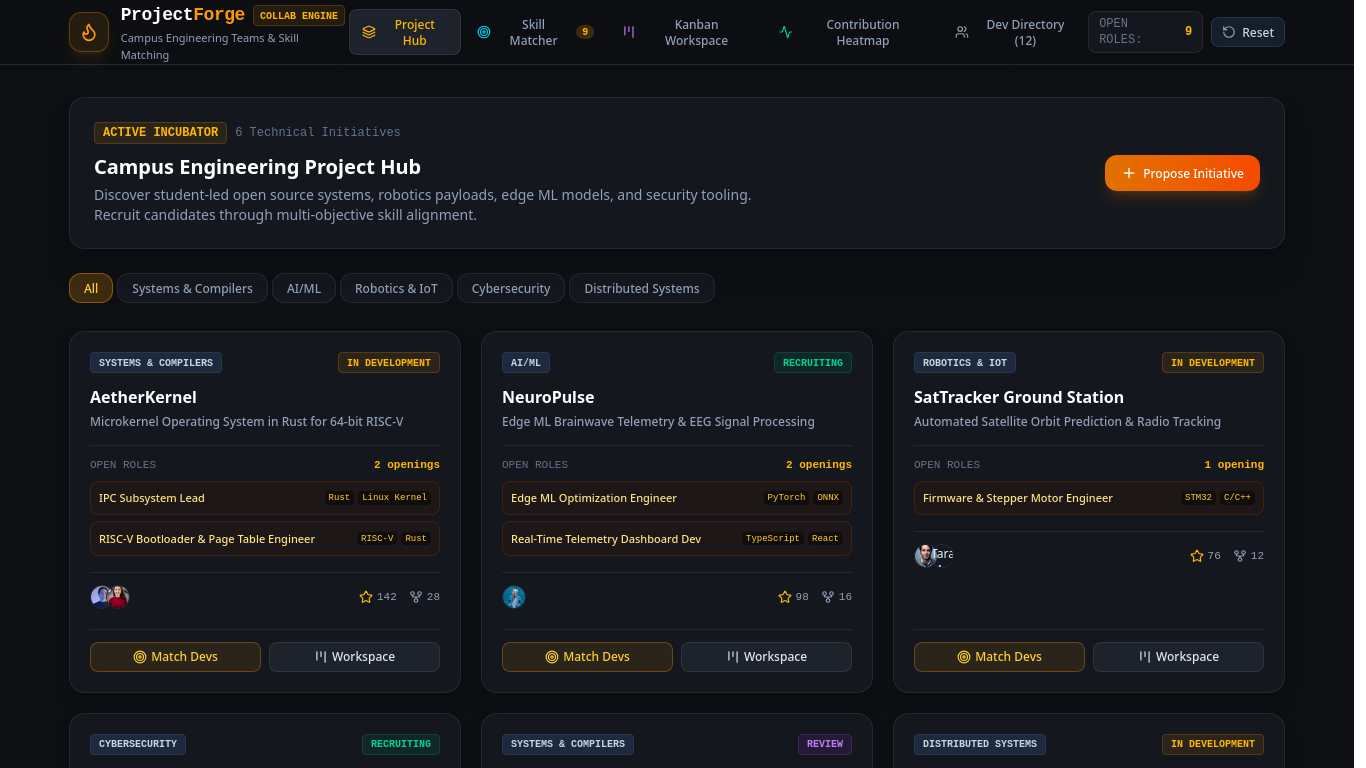
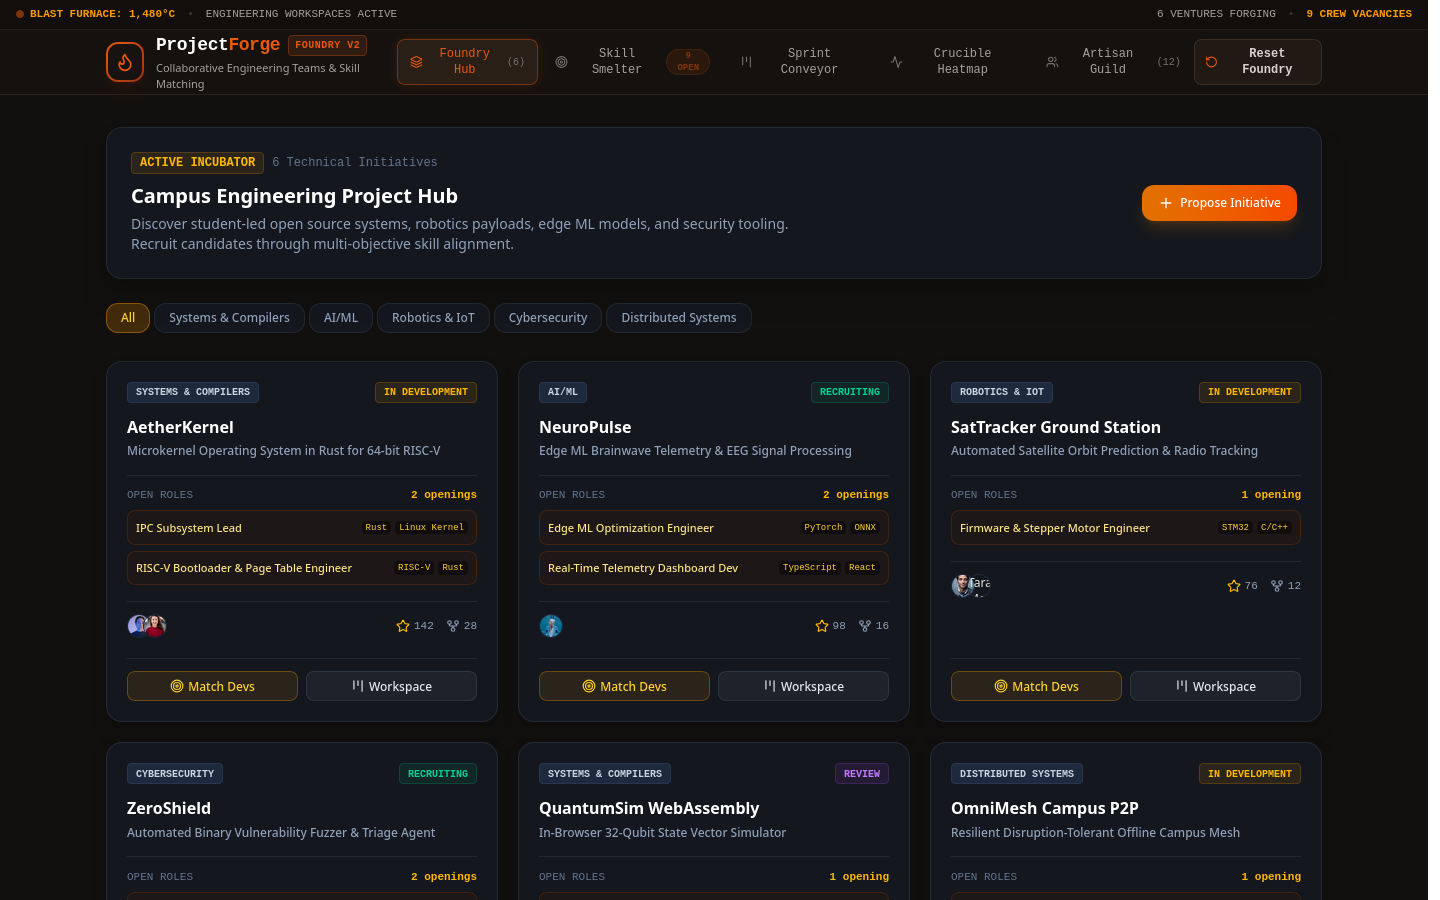
style(projectforge): radical redesign to molten copper and cast iron foundry theme

diff --git a/src/components/layout/Navbar.tsx b/src/components/layout/Navbar.tsx
@@ -8,7 +8,10 @@ import {
   Activity, 
   Users, 
   RotateCcw,
-  Sparkles
+  Sparkles,
+  Hammer,
+  Shield,
+  Zap
 } from 'lucide-react';
 
 export const Navbar: React.FC = () => {
@@ -20,8 +23,35 @@ export const Navbar: React.FC = () => {
     0
   );
 
+  const navTabs = [
+    { id: 'discovery' as const, label: 'Foundry Hub', icon: Layers, count: projects.length },
+    { id: 'matching' as const, label: 'Skill Smelter', icon: Target, badge: openRolesCount > 0 ? `${openRolesCount} OPEN` : undefined },
+    { id: 'kanban' as const, label: 'Sprint Conveyor', icon: Kanban },
+    { id: 'heatmap' as const, label: 'Crucible Heatmap', icon: Activity },
+    { id: 'students' as const, label: 'Artisan Guild', icon: Users, count: students.length },
+  ];
+
   return (
-    <header className="border-b border-[#232933] bg-[#0D0F12]/95 backdrop-blur sticky top-0 z-40">
+    <header className="border-b border-[#2d231b] bg-[#15120f]/95 backdrop-blur sticky top-0 z-40 select-none">
+      {/* Top Crucible Temperature Ticker */}
+      <div className="bg-[#110e0c] border-b border-[#241c16] px-4 py-1.5 flex items-center justify-between text-[11px] font-mono">
+        <div className="flex items-center space-x-3">
+          <div className="flex items-center space-x-1.5 text-amber-500 font-bold">
+            <span className="w-2 h-2 rounded-full bg-[#ea580c] animate-pulse" />
+            <span>BLAST FURNACE: 1,480°C</span>
+          </div>
+          <span className="text-[#3d3128] hidden sm:inline">•</span>
+          <span className="text-stone-400 hidden sm:inline">
+            ENGINEERING WORKSPACES ACTIVE
+          </span>
+        </div>
+        <div className="flex items-center space-x-3 text-stone-400">
+          <span>{projects.length} VENTURES FORGING</span>
+          <span className="text-[#3d3128]">•</span>
+          <span className="text-amber-500 font-semibold">{openRolesCount} CREW VACANCIES</span>
+        </div>
+      </div>
+
       <div className="max-w-7xl mx-auto px-4 sm:px-6 lg:px-8">
         <div className="flex items-center justify-between h-16">
           {/* Brand */}
@@ -29,132 +59,113 @@ export const Navbar: React.FC = () => {
             className="flex items-center space-x-3 cursor-pointer"
             onClick={() => setActiveTab('discovery')}
           >
-            <div className="w-10 h-10 rounded-xl bg-amber-500/10 border border-amber-500/30 flex items-center justify-center shadow-lg shadow-amber-500/10">
-              <Flame className="w-5 h-5 text-amber-500" />
+            <div className="w-10 h-10 rounded-xl bg-gradient-to-br from-[#ea580c] to-[#9a3412] p-0.5 shadow-lg shadow-orange-950/40">
+              <div className="w-full h-full bg-[#171310] rounded-[10px] flex items-center justify-center">
+                <Flame className="w-5 h-5 text-[#ea580c]" />
+              </div>
             </div>
             <div>
               <div className="flex items-center space-x-2">
                 <span className="font-bold text-lg tracking-tight text-white font-mono">
-                  Project<span className="text-amber-500">Forge</span>
+                  Project<span className="text-[#ea580c]">Forge</span>
                 </span>
-                <span className="text-[10px] font-semibold uppercase px-1.5 py-0.5 rounded bg-amber-500/10 text-amber-400 border border-amber-500/20 font-mono">
-                  COLLAB ENGINE
+                <span className="text-[10px] font-bold uppercase px-1.5 py-0.5 rounded bg-[#2e1c12] text-[#ea580c] border border-[#ea580c]/30 font-mono tracking-wider">
+                  FOUNDRY v2
                 </span>
               </div>
-              <p className="text-[11px] text-slate-400 hidden sm:block">Campus Engineering Teams & Skill Matching</p>
+              <p className="text-[11px] text-stone-400 hidden sm:block">Collaborative Engineering Teams & Skill Matching</p>
             </div>
           </div>
 
-          {/* Navigation */}
+          {/* Navigation Links */}
           <nav className="hidden md:flex items-center space-x-1">
-            <button
-              onClick={() => setActiveTab('discovery')}
-              className={`px-3 py-1.5 rounded-lg text-xs font-medium flex items-center space-x-1.5 transition-all ${
-                activeTab === 'discovery'
-                  ? 'bg-[#1E232B] text-amber-400 border border-[#2D3540] shadow-sm'
-                  : 'text-slate-400 hover:text-white hover:bg-slate-800/40'
-              }`}
-            >
-              <Layers className="w-3.5 h-3.5" />
-              <span>Project Hub</span>
-            </button>
-
-            <button
-              onClick={() => setActiveTab('matching')}
-              className={`px-3 py-1.5 rounded-lg text-xs font-medium flex items-center space-x-1.5 transition-all relative ${
-                activeTab === 'matching'
-                  ? 'bg-[#1E232B] text-amber-400 border border-[#2D3540] shadow-sm'
-                  : 'text-slate-400 hover:text-white hover:bg-slate-800/40'
-              }`}
-            >
-              <Target className="w-3.5 h-3.5 text-cyan-400" />
-              <span>Skill Matcher</span>
-              {openRolesCount > 0 && (
-                <span className="px-1.5 py-0.2 text-[10px] rounded-full bg-amber-500/20 text-amber-400 font-mono font-bold">
-                  {openRolesCount}
-                </span>
-              )}
-            </button>
-
-            <button
-              onClick={() => setActiveTab('kanban')}
-              className={`px-3 py-1.5 rounded-lg text-xs font-medium flex items-center space-x-1.5 transition-all ${
-                activeTab === 'kanban'
-                  ? 'bg-[#1E232B] text-amber-400 border border-[#2D3540] shadow-sm'
-                  : 'text-slate-400 hover:text-white hover:bg-slate-800/40'
-              }`}
-            >
-              <Kanban className="w-3.5 h-3.5 text-purple-400" />
-              <span>Kanban Workspace</span>
-            </button>
-
-            <button
-              onClick={() => setActiveTab('heatmap')}
-              className={`px-3 py-1.5 rounded-lg text-xs font-medium flex items-center space-x-1.5 transition-all ${
-                activeTab === 'heatmap'
-                  ? 'bg-[#1E232B] text-amber-400 border border-[#2D3540] shadow-sm'
-                  : 'text-slate-400 hover:text-white hover:bg-slate-800/40'
-              }`}
-            >
-              <Activity className="w-3.5 h-3.5 text-emerald-400" />
-              <span>Contribution Heatmap</span>
-            </button>
-
-            <button
-              onClick={() => setActiveTab('students')}
-              className={`px-3 py-1.5 rounded-lg text-xs font-medium flex items-center space-x-1.5 transition-all ${
-                activeTab === 'students'
-                  ? 'bg-[#1E232B] text-amber-400 border border-[#2D3540] shadow-sm'
-                  : 'text-slate-400 hover:text-white hover:bg-slate-800/40'
-              }`}
-            >
-              <Users className="w-3.5 h-3.5" />
-              <span>Dev Directory ({students.length})</span>
-            </button>
+            {navTabs.map((tab) => {
+              const Icon = tab.icon;
+              const isActive = activeTab === tab.id;
+              return (
+                <button
+                  key={tab.id}
+                  onClick={() => setActiveTab(tab.id)}
+                  className={`px-3 py-1.5 rounded-lg text-xs font-mono font-medium flex items-center space-x-1.5 transition-all ${
+                    isActive
+                      ? 'bg-[#291f17] text-[#ea580c] border border-[#ea580c]/40 shadow-[0_0_12px_rgba(234,88,12,0.15)] font-bold'
+                      : 'text-stone-400 hover:text-stone-200 hover:bg-[#201914] border border-transparent'
+                  }`}
+                >
+                  <Icon className={`w-3.5 h-3.5 ${isActive ? 'text-[#ea580c]' : 'text-stone-500'}`} />
+                  <span>{tab.label}</span>
+                  {tab.badge && (
+                    <span className="px-1.5 py-0.2 text-[9px] rounded-full bg-[#ea580c]/20 text-[#ea580c] border border-[#ea580c]/30 font-bold animate-pulse">
+                      {tab.badge}
+                    </span>
+                  )}
+                  {tab.count !== undefined && !tab.badge && (
+                    <span className="text-[10px] text-stone-500 font-mono">
+                      ({tab.count})
+                    </span>
+                  )}
+                </button>
+              );
+            })}
           </nav>
 
-          {/* Right Section */}
+          {/* Right Action Controls */}
           <div className="flex items-center space-x-2">
-            <div className="hidden sm:flex items-center space-x-2 px-2.5 py-1 rounded-lg bg-[#14171D] border border-[#232933] text-xs font-mono">
-              <span className="text-slate-500">OPEN ROLES:</span>
-              <span className="font-bold text-amber-400">{openRolesCount}</span>
-            </div>
-
             <button
               onClick={() => setShowResetConfirm(true)}
-              className="px-2.5 py-1.5 rounded-lg bg-slate-800/60 hover:bg-slate-800 border border-slate-700/60 text-slate-300 hover:text-white text-xs font-medium flex items-center space-x-1.5 transition-all"
-              title="Reset seeded simulation data"
+              className="px-2.5 py-1.5 rounded-lg text-xs font-mono font-semibold bg-[#201914] hover:bg-[#2c221a] text-stone-300 hover:text-white border border-[#3b2d22] flex items-center space-x-1.5 transition-all"
+              title="Reset Demo Data"
             >
-              <RotateCcw className="w-3.5 h-3.5 text-slate-400" />
-              <span className="hidden sm:inline">Reset</span>
+              <RotateCcw className="w-3.5 h-3.5 text-[#ea580c]" />
+              <span className="hidden sm:inline">Reset Foundry</span>
             </button>
           </div>
         </div>
+
+        {/* Mobile Navigation bar */}
+        <div className="flex md:hidden overflow-x-auto py-2 space-x-1 border-t border-[#2d231b] no-scrollbar">
+          {navTabs.map((tab) => (
+            <button
+              key={tab.id}
+              onClick={() => setActiveTab(tab.id)}
+              className={`px-2.5 py-1 rounded text-xs whitespace-nowrap font-mono ${
+                activeTab === tab.id 
+                  ? 'bg-[#291f17] text-[#ea580c] border border-[#ea580c]/40 font-bold' 
+                  : 'text-stone-400'
+              }`}
+            >
+              {tab.label}
+            </button>
+          ))}
+        </div>
       </div>
 
-      {/* Reset Confirmation Modal */}
+      {/* Confirmation Modal */}
       {showResetConfirm && (
-        <div className="fixed inset-0 z-50 bg-black/70 backdrop-blur-sm flex items-center justify-center p-4">
-          <div className="bg-[#14171D] border border-[#2D3540] rounded-2xl p-6 max-w-sm w-full shadow-2xl">
-            <h3 className="text-base font-bold text-white">Reset Demo State?</h3>
-            <p className="text-xs text-slate-400 mt-2">
-              This will re-initialize all engineering projects, recruitments, and Kanban tasks back to original seeded defaults.
+        <div className="fixed inset-0 z-50 bg-black/80 backdrop-blur-sm flex items-center justify-center p-4">
+          <div className="bg-[#1c1613] border border-[#ea580c]/40 rounded-xl max-w-sm w-full p-5 shadow-2xl font-mono text-stone-200">
+            <div className="flex items-center space-x-3 text-[#ea580c] mb-3">
+              <RotateCcw className="w-5 h-5" />
+              <h3 className="font-bold text-white text-sm uppercase tracking-wider">Reset Foundry State?</h3>
+            </div>
+            <p className="text-xs text-stone-400 mb-4 leading-relaxed font-sans">
+              This will reforge all 8 seeded engineering projects, reseed 32 artisan student profiles, restore sprint tasks to original columns, and clear custom modifications.
             </p>
-            <div className="mt-5 flex items-center justify-end space-x-2">
+            <div className="flex justify-end space-x-2 text-xs">
               <button
                 onClick={() => setShowResetConfirm(false)}
-                className="px-3 py-1.5 rounded-lg text-xs text-slate-400 hover:text-white"
+                className="px-3 py-1.5 rounded-md text-stone-400 hover:text-white hover:bg-[#28201a]"
               >
-                Cancel
+                CANCEL
               </button>
               <button
                 onClick={() => {
                   resetDemoData();
                   setShowResetConfirm(false);
                 }}
-                className="px-4 py-1.5 rounded-lg text-xs bg-amber-600 hover:bg-amber-500 text-white font-medium"
+                className="px-3 py-1.5 rounded-md bg-[#ea580c] hover:bg-[#f97316] text-stone-950 font-black shadow-lg shadow-orange-950/40"
               >
-                Reset All
+                CONFIRM REFORGE
               </button>
             </div>
           </div>

diff --git a/src/App.tsx b/src/App.tsx
@@ -6,12 +6,13 @@ import { KanbanBoardView } from './components/kanban/KanbanBoardView';
 import { ContributionHeatmapView } from './components/analytics/ContributionHeatmapView';
 import { StudentProfilesView } from './components/profiles/StudentProfilesView';
 import { useProjectForgeStore } from './store/useProjectForgeStore';
+import { Flame, Hammer, Shield } from 'lucide-react';
 
 export const App: React.FC = () => {
   const { activeTab } = useProjectForgeStore();
 
   return (
-    <div className="min-h-screen bg-[#0D0F12] text-slate-100 flex flex-col font-sans selection:bg-amber-500/30 selection:text-amber-300">
+    <div className="min-h-screen bg-[#12100e] text-stone-200 flex flex-col font-sans selection:bg-[#ea580c]/30 selection:text-[#ea580c]">
       <Navbar />
 
       <main className="flex-1 max-w-7xl w-full mx-auto px-4 sm:px-6 lg:px-8 py-8">
@@ -22,11 +23,14 @@ export const App: React.FC = () => {
         {activeTab === 'students' && <StudentProfilesView />}
       </main>
 
-      <footer className="border-t border-[#232933] bg-[#090A0D] py-6 text-center text-xs text-slate-500">
+      <footer className="border-t border-[#2d231b] bg-[#0f0d0b] py-6 text-center text-xs text-stone-500 font-mono">
         <div className="max-w-7xl mx-auto px-4 flex flex-col sm:flex-row items-center justify-between gap-2">
-          <p>© 2026 ProjectForge — Technical Collaboration & Skill Matching Engine</p>
-          <p className="font-mono text-[11px] text-slate-400">
-            Multi-Factor Skill Matrix • In-Browser Sprint Workspace • Local Persistence
+          <div className="flex items-center space-x-2 text-stone-400">
+            <Hammer className="w-3.5 h-3.5 text-[#ea580c]" />
+            <span>ProjectForge Industrial Heavy Engineering • Smart Campus Project Portfolio</span>
+          </div>
+          <p className="text-[11px] text-stone-500">
+            Crucible Match Algorithm • Client-Side Kanban Studio • Local Storage
           </p>
         </div>
       </footer>

diff --git a/src/index.css b/src/index.css
@@ -1,13 +1,59 @@
 @import "tailwindcss";
 
 @layer base {
+  :root {
+    --forge-bg: #12100e;
+    --forge-card: #191613;
+    --forge-border: #2c231c;
+    --forge-copper: #ea580c;
+    --forge-bronze: #d97706;
+  }
+
   body {
-    background-color: #0d0f12;
-    color: #f3f4f6;
+    background-color: #12100e;
+    background-image: 
+      radial-gradient(circle at 50% 0%, rgba(234, 88, 12, 0.08) 0%, transparent 60%),
+      radial-gradient(rgba(234, 88, 12, 0.02) 1px, transparent 1px);
+    background-size: 100% 100%, 28px 28px;
+    color: #ede8e3;
     font-family: 'Plus Jakarta Sans', system-ui, -apple-system, sans-serif;
   }
 
-  code, pre {
+  code, pre, .font-mono {
     font-family: 'JetBrains Mono', monospace;
   }
+}
+
+.forge-card {
+  background-color: #191613;
+  border: 1px solid #2d231b;
+  box-shadow: 0 4px 20px rgba(0, 0, 0, 0.5);
+}
+
+.forge-card-molten {
+  border-top: 2px solid #ea580c;
+}
+
+.forge-card:hover {
+  border-color: rgba(234, 88, 12, 0.4);
+}
+
+.forge-glow {
+  box-shadow: 0 0 16px rgba(234, 88, 12, 0.25);
+}
+
+/* Custom scrollbars */
+::-webkit-scrollbar {
+  width: 6px;
+  height: 6px;
+}
+::-webkit-scrollbar-track {
+  background: #12100e;
+}
+::-webkit-scrollbar-thumb {
+  background: #2d231b;
+  border-radius: 3px;
+}
+::-webkit-scrollbar-thumb:hover {
+  background: #ea580c;
 }
